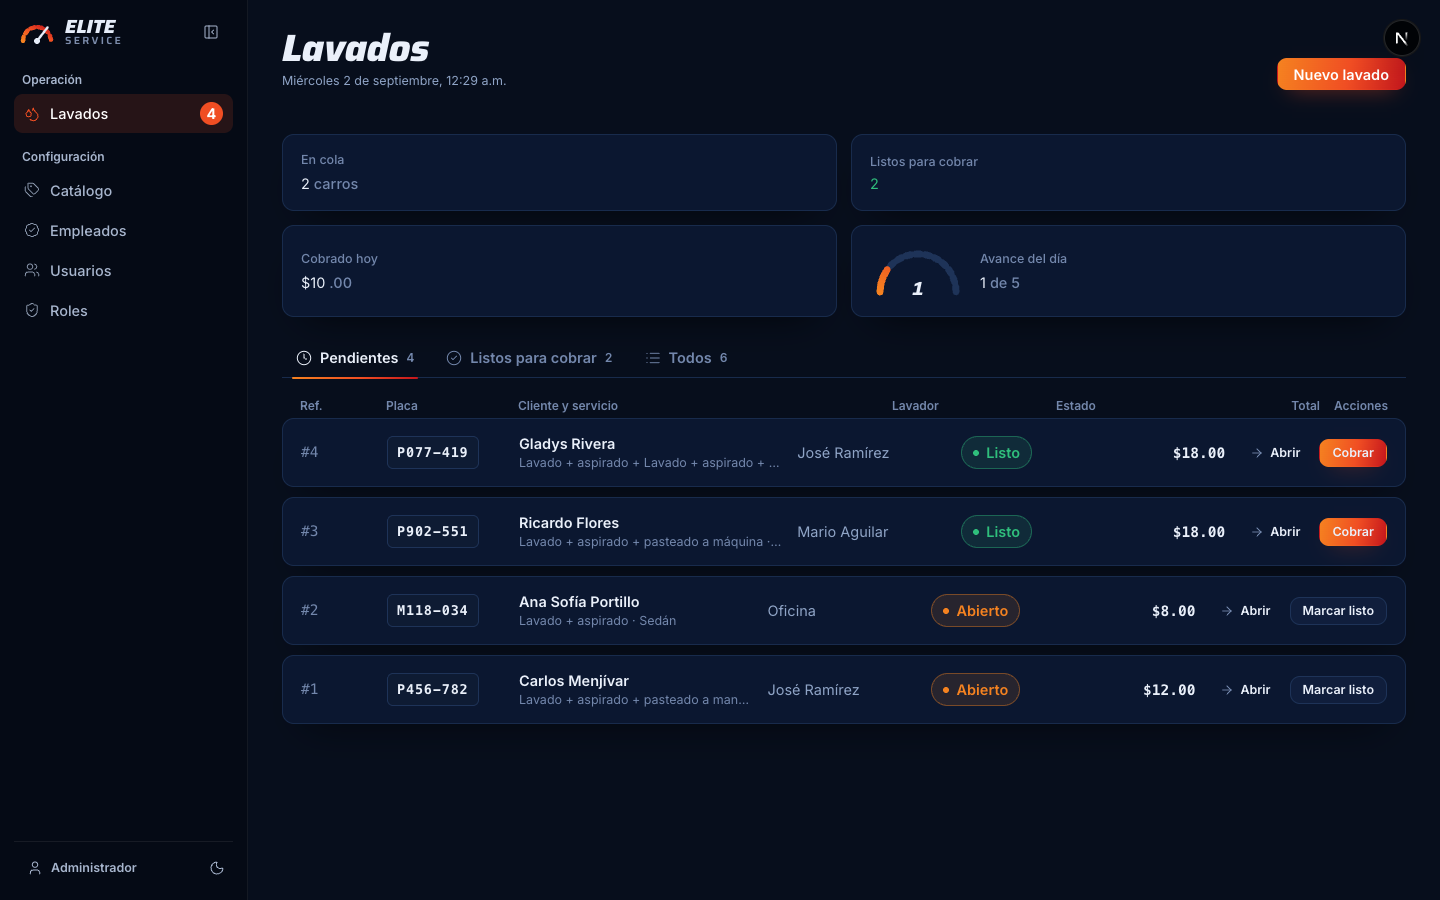
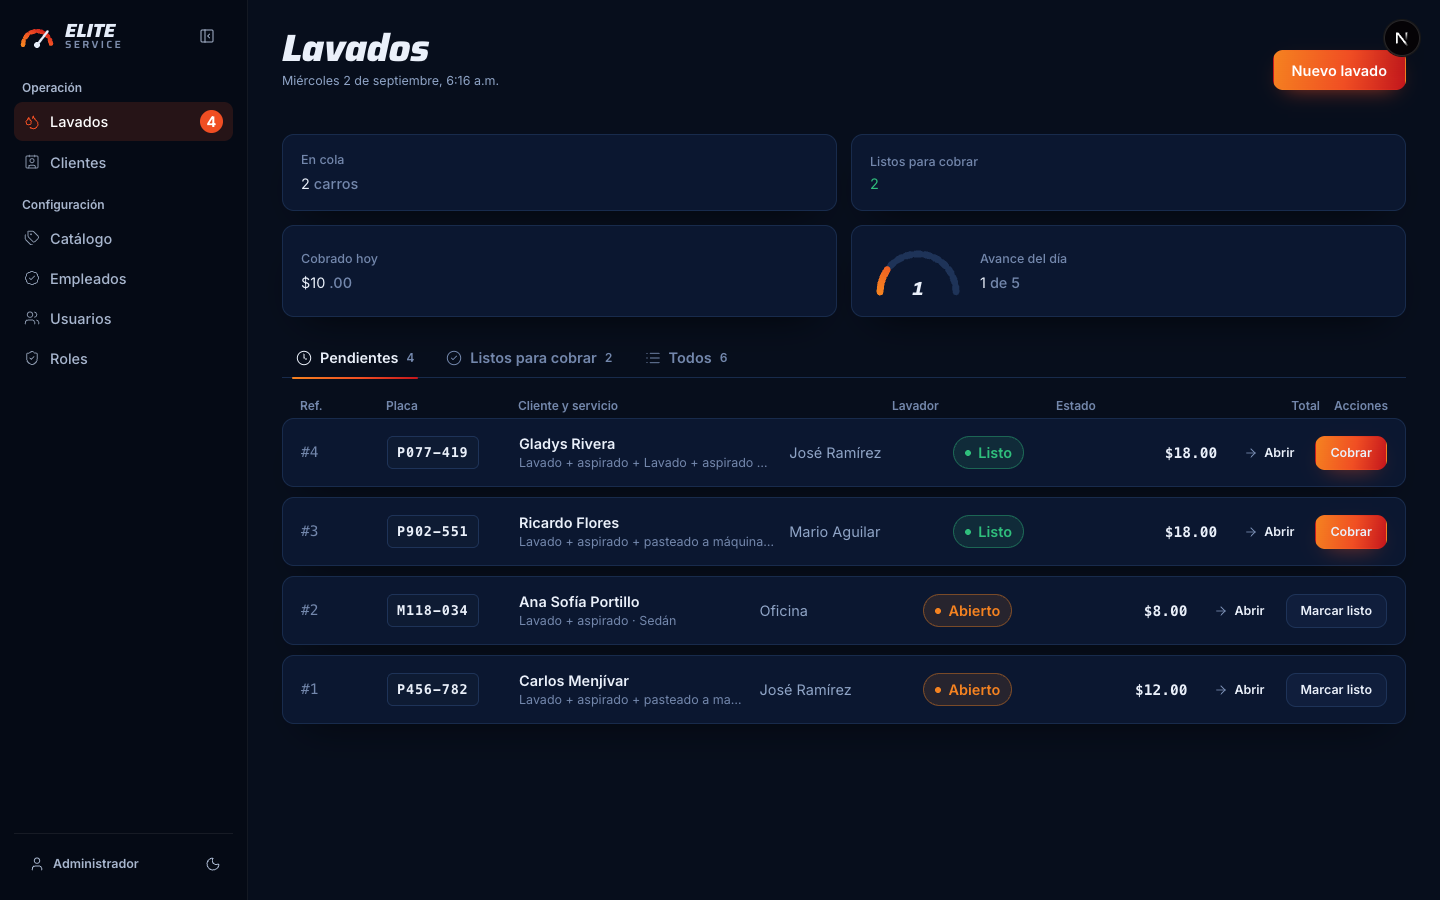
Give controls more room: 40px tall in mostrador with wider padding
Inputs, textareas and buttons were 32px tall with 12px of side padding,
noticeably tighter than the prototype. Mostrador now uses --control-h 40px
(bahia stays at 48px), inputs get 14px of side padding and buttons 18px,
with the small and extra-small sizes scaled to match. DESIGN.md updated.

diff --git a/apps/web/src/components/ui/button.tsx b/apps/web/src/components/ui/button.tsx
@@ -35,13 +35,13 @@ const buttonVariants = cva(
         link: 'text-text underline-offset-4 hover:underline',
       },
       size: {
-        default: 'h-control px-4 has-[>svg]:px-3',
-        xs: 'h-[calc(var(--control-h)_-_8px)] gap-1 px-2 text-dense has-[>svg]:px-1.5',
-        sm: 'h-[calc(var(--control-h)_-_4px)] gap-1.5 px-3 text-dense has-[>svg]:px-2.5',
-        lg: 'h-[calc(var(--control-h)_+_8px)] px-6 has-[>svg]:px-4',
+        default: 'h-control px-4.5 has-[>svg]:px-3.5',
+        xs: 'h-[calc(var(--control-h)_-_12px)] gap-1 px-2.5 text-dense has-[>svg]:px-2',
+        sm: 'h-[calc(var(--control-h)_-_6px)] gap-1.5 px-3.5 text-dense has-[>svg]:px-3',
+        lg: 'h-[calc(var(--control-h)_+_8px)] px-7 has-[>svg]:px-5',
         icon: 'size-control',
-        'icon-xs': 'size-[calc(var(--control-h)_-_8px)]',
-        'icon-sm': 'size-[calc(var(--control-h)_-_4px)]',
+        'icon-xs': 'size-[calc(var(--control-h)_-_12px)]',
+        'icon-sm': 'size-[calc(var(--control-h)_-_6px)]',
         'icon-lg': 'size-[calc(var(--control-h)_+_8px)]',
       },
     },

diff --git a/apps/web/src/components/ui/input.tsx b/apps/web/src/components/ui/input.tsx
@@ -15,7 +15,7 @@ function Input({ className, type, ...props }: React.ComponentProps<'input'>) {
       type={type}
       data-slot="input"
       className={cn(
-        'h-control border-line bg-surface-2 text-text placeholder:text-text-faint w-full min-w-0 rounded-control border px-3 text-body transition-colors duration-(--duration-state) ease-standard file:inline-flex file:border-0 file:bg-transparent file:text-body file:font-medium file:text-text disabled:pointer-events-none disabled:cursor-not-allowed disabled:opacity-50',
+        'h-control border-line bg-surface-2 text-text placeholder:text-text-faint w-full min-w-0 rounded-control border px-3.5 text-body transition-colors duration-(--duration-state) ease-standard file:inline-flex file:border-0 file:bg-transparent file:text-body file:font-medium file:text-text disabled:pointer-events-none disabled:cursor-not-allowed disabled:opacity-50',
         'focus-visible:border-flame',
         'aria-invalid:border-danger',
         className,

diff --git a/apps/web/src/components/ui/textarea.tsx b/apps/web/src/components/ui/textarea.tsx
@@ -12,7 +12,7 @@ function Textarea({ className, ...props }: React.ComponentProps<'textarea'>) {
     <textarea
       data-slot="textarea"
       className={cn(
-        'border-line bg-surface-2 text-text placeholder:text-text-faint w-full min-w-0 min-h-20 rounded-control border px-3 py-2.5 text-body transition-colors duration-(--duration-state) ease-standard disabled:pointer-events-none disabled:cursor-not-allowed disabled:opacity-50',
+        'border-line bg-surface-2 text-text placeholder:text-text-faint w-full min-w-0 min-h-20 rounded-control border px-3.5 py-3 text-body transition-colors duration-(--duration-state) ease-standard disabled:pointer-events-none disabled:cursor-not-allowed disabled:opacity-50',
         'focus-visible:border-flame',
         'aria-invalid:border-danger',
         'resize-y',

diff --git a/apps/web/src/app/globals.css b/apps/web/src/app/globals.css
@@ -92,8 +92,8 @@
 
   /* --- Densidad: por defecto mostrador, para que nada dependa del atributo --- */
   --row-h: 36px;
-  --control-h: 32px;
-  --touch-min: 32px;
+  --control-h: 40px;
+  --touch-min: 36px;
   --plate-pad: 16px;
   --icon-size: 16px;
 
@@ -186,8 +186,8 @@
  * mostrador: recepción, teclado y monitor. bahia: tablet, de pie, con guantes. */
 [data-density='mostrador'] {
   --row-h: 36px;
-  --control-h: 32px;
-  --touch-min: 32px;
+  --control-h: 40px;
+  --touch-min: 36px;
   --plate-pad: 16px;
   --icon-size: 16px;
 }

diff --git a/apps/web/DESIGN.md b/apps/web/DESIGN.md
@@ -111,8 +111,8 @@ breakpoints:
 density:
   mostrador:
     row: '36px'
-    control: '32px'
-    touch: '32px'
+    control: '40px'
+    touch: '36px'
     plate: '16px'
     icon: '16px'
   bahia:
@@ -361,8 +361,8 @@ conmuta cinco tokens; una pantalla que se ve igual en las dos está incompleta.
 | Token         | `mostrador` (escritorio) | `bahia` (táctil) |
 | ------------- | ------------------------ | ---------------- |
 | `--row-h`     | 36px                     | 56px             |
-| `--control-h` | 32px                     | 48px             |
-| `--touch-min` | 32px                     | 44px             |
+| `--control-h` | 40px                     | 48px             |
+| `--touch-min` | 36px                     | 44px             |
 | `--plate-pad` | 16px                     | 20px             |
 | `--icon-size` | 16px                     | 20px             |
 
@@ -391,7 +391,7 @@ cambia**, porque el texto sigue ahí ocupando su sitio).
 
 ### Campo de texto
 
-`--surface-2` de fondo, filete `--line`, radio 10px, alto `--control-h`, padding lateral 12px. La
+`--surface-2` de fondo, filete `--line`, radio 10px, alto `--control-h`, padding lateral 14px. La
 etiqueta va encima, 13px peso 600 en el color del texto principal. En foco el filete pasa a
 `--flame`. Con `aria-invalid` pasa a `--danger` y el mensaje va debajo en `--danger-text`, 12.5px.
 Lo que se puede ver pero no editar se muestra como **texto plano sin caja**, nunca como un control
